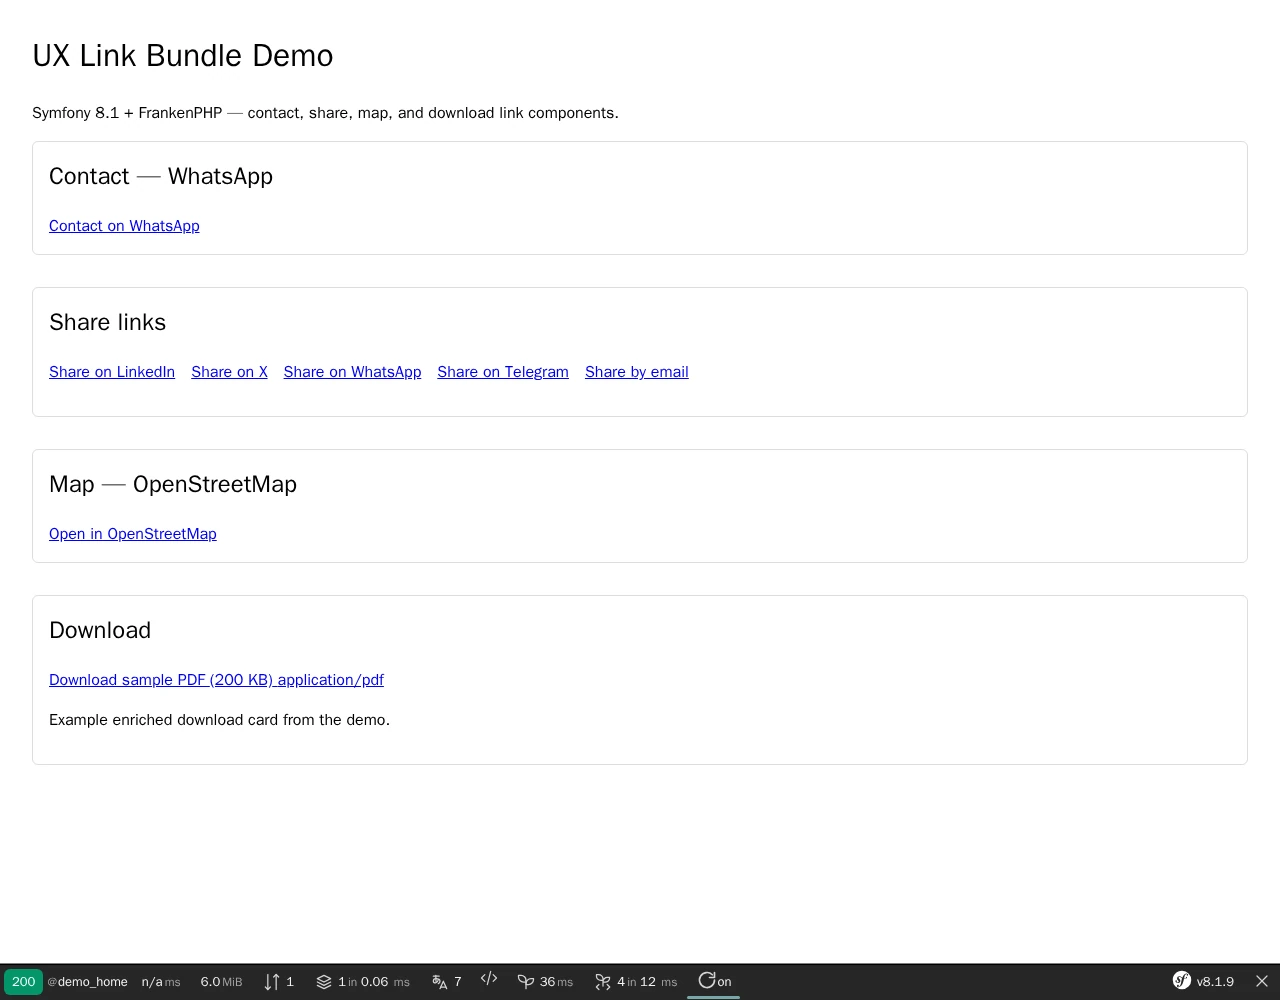
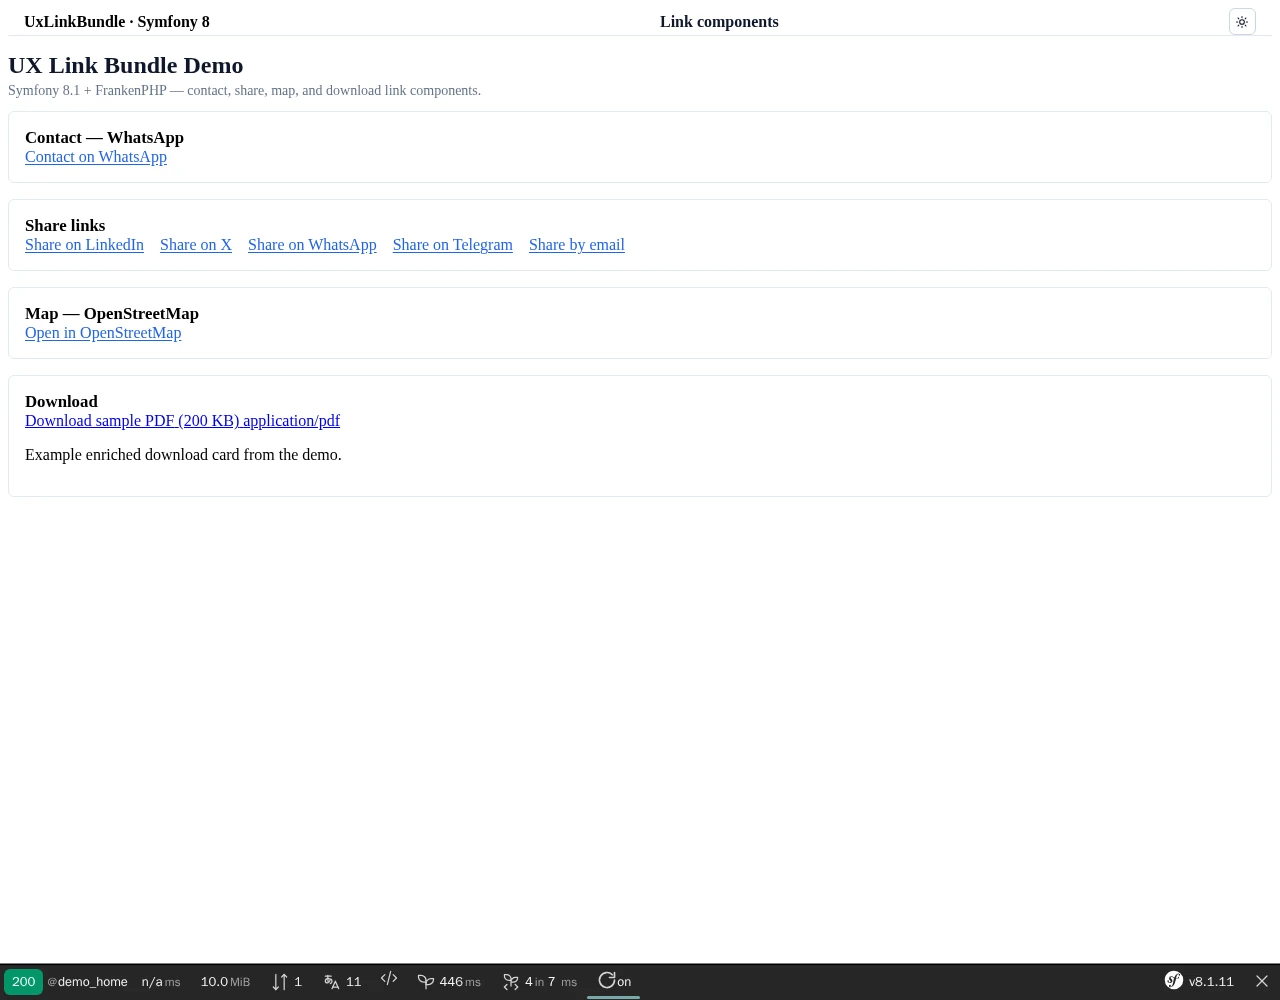
docs(demo): align demo with UiKit and FormKit (#23)

diff --git a/demo/symfony8/public/demo.css b/demo/symfony8/public/demo.css
@@ -1,4 +1,5 @@
-/* Demo-only layout for the bundle's own components (UiKit has no equivalent); tokens are UiKit's, never redefined. */
+/* The bundle's own share-links list (<ul class="ux-share-links__list">, markup not configurable) has no UiKit
+   equivalent: list reset and a row layout. UiKit tokens only, none redefined. */
 .ux-share-links__list {
     display: flex;
     flex-wrap: wrap;
@@ -6,10 +7,4 @@
     list-style: none;
     margin: 0;
     padding: 0;
-}
-
-.ux-download-link {
-    border: 1px solid var(--nowo-ui-border);
-    border-radius: var(--nowo-ui-radius);
-    padding: 1rem;
 }

diff --git a/docs/CHANGELOG.md b/docs/CHANGELOG.md
@@ -31,6 +31,7 @@ and this project adheres to [Semantic Versioning](https://semver.org/spec/v2.0.0
 
 ### Changed
 
+- Demo: aligned with UiKit. `demo.css` is down to the share-links list reset (the bundle's own markup, no UiKit equivalent); the download card no longer has a second border inside its UiKit card; `demo-nav-*` test id and the `· Symfony 8` brand and title suffix.
 - Demo uses the UiKit base style and FormKit forms (REQ-DEMO-014/015). The bundle demo has no forms, so only the UiKit shell applies.
 - CI: `Demo smoke` workflow (weekly, `v*` tags, manual) runs `make demo-smoke`, which now boots the demo and checks HTTP 200 (`demo release-verify`); documented in `docs/DEMO-FRANKENPHP.md` (REQ-TEST-011)
 - CI: Dependabot npm updates for `demo/symfony8/e2e` (REQ-GH-002)
